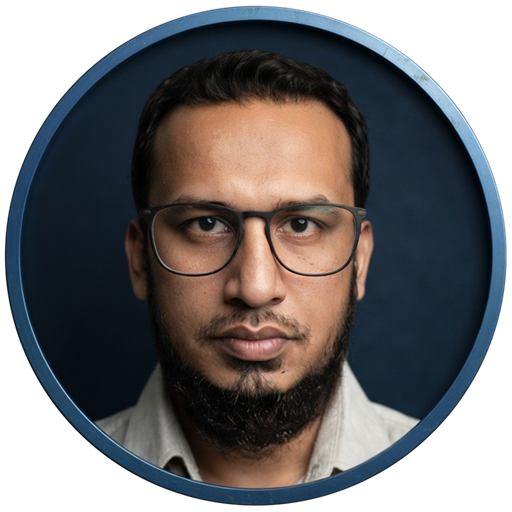
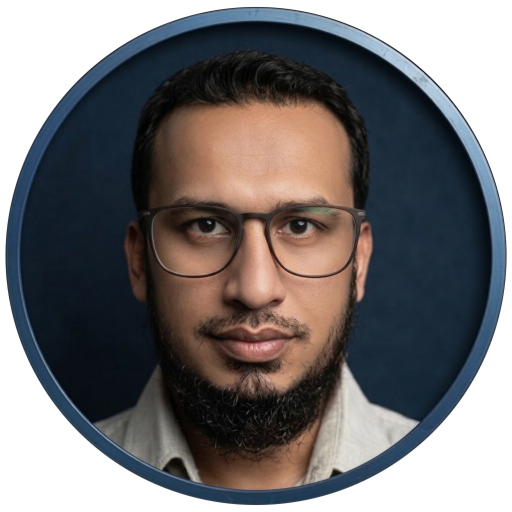
env-driven Tawk widget, nav readability improvements, reorder home page sections

diff --git a/src/components/NavContact.jsx b/src/components/NavContact.jsx
@@ -19,7 +19,7 @@ const NavContact = () => {
   return (
     <div className='flex items-center gap-3'>
       {/* Email Section - Container Static */}
-      <div className='flex items-center gap-2 border border-gray-600/30 rounded-full px-3 py-2 bg-card/20 backdrop-blur-sm'>
+      <div className='flex items-center gap-2 border border-gray-600/30 rounded-full px-3 py-2 bg-card/40 backdrop-blur-sm'>
         {/* Copy Button */}
         <motion.button
           whileHover={{ scale: 1.2, color: "#a855f7" }}
@@ -44,7 +44,7 @@ const NavContact = () => {
           </AnimatePresence>
         </motion.button>
 
-        <span className='text-sm font-medium text-gray-700 dark:text-gray-300 truncate max-w-[180px]'>
+        <span className='text-sm font-medium text-gray-400 truncate max-w-[180px]'>
           nasir.masud@ymail.com
         </span>
 
@@ -60,8 +60,8 @@ const NavContact = () => {
       </div>
 
       {/* CV Button - Container Static */}
-      <div className='flex items-center gap-2 border border-gray-600/30 rounded-full px-4 py-2 bg-card/20 backdrop-blur-sm'>
-        <span className='text-sm font-medium text-gray-600'>Resume</span>
+      <div className='flex items-center gap-2 border border-gray-600/30 rounded-full px-4 py-2 bg-card/40 backdrop-blur-sm'>
+        <span className='text-sm font-medium text-gray-400'>Resume</span>
 
         {/* Download Icon - Hover Active */}
         <motion.button

diff --git a/src/components/Hero.jsx b/src/components/Hero.jsx
@@ -65,7 +65,7 @@ const Hero = () => {
           {/* Badge */}
           <motion.div
             variants={fadeInUp}
-            className='inline-flex items-center gap-2 px-3 py-1 rounded-full bg-secondary/50 border border-border text-xs font-medium text-primary mb-6'
+            className='inline-flex items-center gap-2 px-3 py-1 rounded-full bg-secondary/70 border border-border text-xs font-medium text-violet-300 mb-6'
           >
             <span className='relative flex h-2 w-2'>
               <span className='animate-ping absolute inline-flex h-full w-full rounded-full bg-primary opacity-75'></span>
@@ -81,7 +81,7 @@ const Hero = () => {
           >
             Building digital <br />
             <motion.span
-              className='text-gradient bg-clip-text text-transparent bg-gradient-to-r from-primary to-accent'
+              className='text-gradient bg-clip-text text-transparent bg-gradient-to-r from-primary via-accent to-primary'
               animate={{ backgroundPosition: ["0% 50%", "100% 50%", "0% 50%"] }}
               transition={{ duration: 5, repeat: Infinity }}
             >

diff --git a/src/components/TawkWidget.jsx b/src/components/TawkWidget.jsx
@@ -1,0 +1,24 @@
+import { useEffect } from "react";
+
+const TawkWidget = () => {
+  useEffect(() => {
+    const propertyId = import.meta.env.VITE_TAWK_PROPERTY_ID;
+    const widgetId = import.meta.env.VITE_TAWK_WIDGET_ID;
+    if (!propertyId || !widgetId) return;
+    const tawkUrl = `https://embed.tawk.to/${propertyId}/${widgetId}`;
+
+    window.Tawk_API = window.Tawk_API || {};
+    window.Tawk_LoadStart = new Date();
+    const s1 = document.createElement("script");
+    s1.async = true;
+    s1.src = tawkUrl;
+    s1.charset = "UTF-8";
+    s1.setAttribute("crossorigin", "*");
+    const s0 = document.getElementsByTagName("script")[0];
+    s0.parentNode.insertBefore(s1, s0);
+  }, []);
+
+  return null;
+};
+
+export default TawkWidget;

diff --git a/index.html b/index.html
@@ -9,18 +9,5 @@
   <body>
     <div id="root"></div>
     <script type="module" src="/src/main.jsx"></script>
-    <!--Start of Tawk.to Script-->
-    <script type="text/javascript">
-    var Tawk_API=Tawk_API||{}, Tawk_LoadStart=new Date();
-    (function(){
-    var s1=document.createElement("script"),s0=document.getElementsByTagName("script")[0];
-    s1.async=true;
-    s1.src='https://embed.tawk.to/6a8fbe13c3c46c344587433c/1k10nsvi3';
-    s1.charset='UTF-8';
-    s1.setAttribute('crossorigin','*');
-    s0.parentNode.insertBefore(s1,s0);
-    })();
-    </script>
-    <!--End of Tawk.to Script-->
-  </body>
+    </body>
 </html>

diff --git a/src/pages/Index.jsx b/src/pages/Index.jsx
@@ -1,6 +1,5 @@
 import About from "@/components/About";
 import Contact from "@/components/Contact";
-import Education from "@/components/Education";
 import Footer from "@/components/Footer";
 import GithubGraph from "@/components/GithubGraph";
 import Hero from "@/components/Hero";
@@ -15,11 +14,10 @@ const Index = () => {
       <Navbar />
       <main>
         <Hero />
+        <Projects />
         <TechStack />
         <Skill />
-        <Projects />
         <About />
-        <Education />
         <GithubGraph />
         <Contact />
       </main>

diff --git a/src/App.jsx b/src/App.jsx
@@ -3,6 +3,7 @@ import { useEffect } from "react";
 import { BrowserRouter, Route, Routes, useLocation } from "react-router-dom";
 import Index from "./pages/Index";
 import AllProjects from "./pages/AllProjects";
+import TawkWidget from "./components/TawkWidget";
 
 const queryClient = new QueryClient();
 
@@ -17,6 +18,7 @@ function ScrollToTop() {
 const App = () => {
   return (
     <QueryClientProvider client={queryClient}>
+      <TawkWidget />
       <BrowserRouter>
         <ScrollToTop />
         <Routes>

diff --git a/src/index.css b/src/index.css
@@ -93,7 +93,7 @@
     @apply bg-card/60 backdrop-blur-md border border-white/5;
   }
   .text-gradient {
-    background: linear-gradient(to right, rgb(124, 58, 237), rgb(45, 212, 191));
+    background: linear-gradient(to right, rgb(124, 58, 237), rgb(45, 212, 191) 50%, rgb(124, 58, 237));
     -webkit-background-clip: text;
     -webkit-text-fill-color: transparent;
   }
